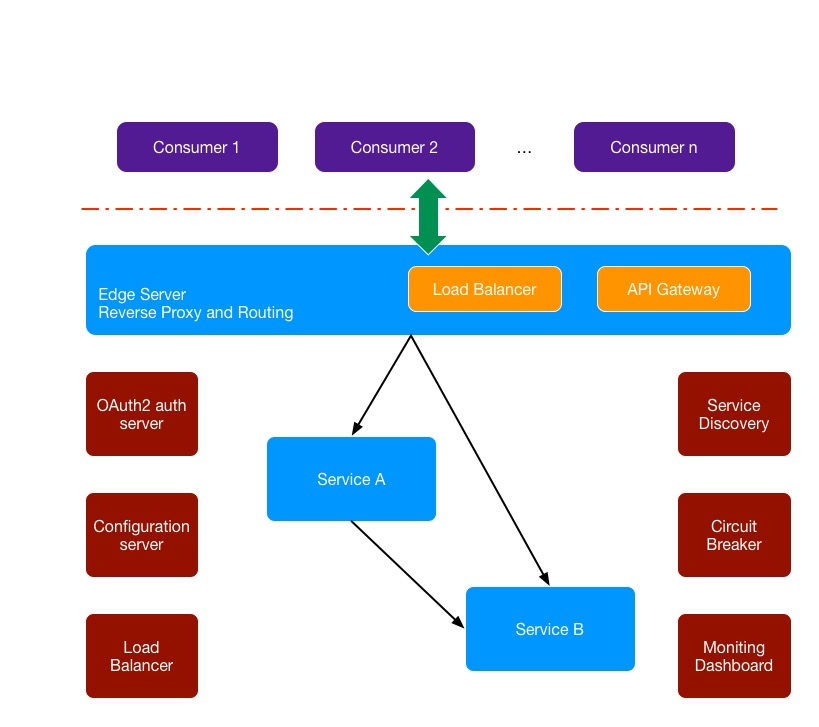
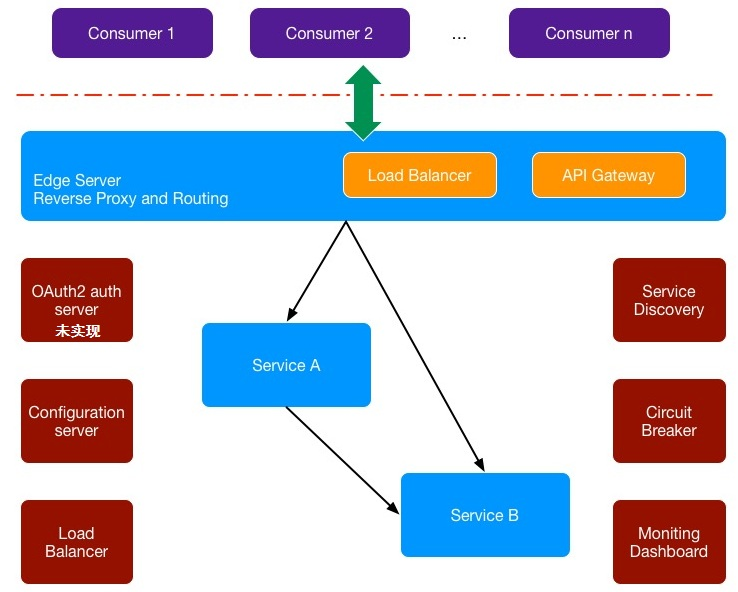
revise readme

diff --git a/README.md b/README.md
@@ -1,45 +1,43 @@
-# 基于 Spring Cloud 的微服务架构
+# 基于 Spring Cloud 的微服务基础框架
 
-本项目是一个基于 Spring Boot、Spring Cloud、Spring Oauth2 和 Spring Cloud Netflix 等框架构建的微服务项目。
+本项目是一个基于 Spring Cloud生态圈构建的微服务基础项目。包含了微服务在生产上所用到最基础组件，方便开发人员快速熟悉、构建基于Spring Cloud的微服务系统。
 
 # 技术栈
 * Spring boot - 微服务的入门级微框架，用来简化 Spring 应用的初始搭建以及开发过程。
-* Eureka - 云端服务发现，一个基于 REST 的服务，用于定位服务，以实现云端中间层服务发现和故障转移。
-* Spring Cloud Config - 配置管理工具包，让你可以把配置放到远程服务器，集中化管理集群配置，目前支持本地存储、Git 以及 Subversion。
-* Hystrix - 熔断器，容错管理工具，旨在通过熔断机制控制服务和第三方库的节点,从而对延迟和故障提供更强大的容错能力。
-* Zuul - Zuul 是在云平台上提供动态路由，监控，弹性，安全等边缘服务的框架。Zuul 相当于是设备和 Netflix 流应用的 Web 网站后端所有请求的前门。
+* Eureka - 云端服务发现，一个基于 REST 的服务，用于定位服务，以实现云端中间层服务发现和故障转移。[进一步了解Netflix Eureka](readmore/netflix%20eureka%20basic.md)
+* Spring Cloud Config - 配置管理工具包，让你可以把配置放到远程服务器，集中化管理集群配置，目前支持本地存储、Git 以及 Subversion。[进一步了解Spring Cloud Config](readmore/spring%20cloud%20config%20basic.md)
+* Hystrix - 熔断器，容错管理工具，旨在通过熔断机制控制服务和第三方库的节点,从而对延迟和故障提供更强大的容错能力。[进一步了解Netflix Hystrix](readmore/netflix%20hystrix%20basic.md)
+* Zuul - Zuul 是在云平台上提供动态路由，监控，弹性，安全等边缘服务的框架。Zuul 相当于是设备和 Netflix 流应用的 Web 网站后端所有请求的前门。[进一步了解Netflix Zuul](readmore/netflix%20zuul%20basic.md)
 * Spring Cloud Bus - 事件、消息总线，用于在集群（例如，配置变化事件）中传播状态变化，可与 Spring Cloud Config 联合实现热部署。
 * Spring Cloud Sleuth - 日志收集工具包，封装了 Dapper 和 log-based 追踪以及 Zipkin 和 HTrace 操作，为 SpringCloud 应用实现了一种分布式追踪解决方案。
-* Ribbon - 提供云端负载均衡，有多种负载均衡策略可供选择，可配合服务发现和断路器使用。
+* Ribbon - 提供云端负载均衡，有多种负载均衡策略可供选择，可配合服务发现和断路器使用。[进一步了解Netflix Ribbon](readmore/netflix%20ribbon%20basic.md)
 * Turbine - Turbine 是聚合服务器发送事件流数据的一个工具，用来监控集群下 hystrix 的 metrics 情况。
 * Spring Cloud Stream - Spring 数据流操作开发包，封装了与 Redis、Rabbit、Kafka 等发送接收消息。
-* Feign - Feign 是一种声明式、模板化的 HTTP 客户端。
-* Spring Cloud OAuth2 - 基于 Spring Security 和 OAuth2 的安全工具包，为你的应用程序添加安全控制。
-
+* Feign - Feign 是一种声明式、模板化的 HTTP 客户端。[进一步了解Netflix Feign](readmore/netflix%20feign%20basic.md)
+* Spring Cloud OAuth2 - 基于 Spring Security 和 OAuth2 的安全工具包，为你的应用程序添加安全控制**（出于简单考虑，本框架不加入该组件）**。
 # 应用架构
 
-该项目包含 8 个服务
+该项目包含 7 个服务
 
 * registry - 服务注册与发现
 * config - 外部配置
 * monitor - 监控
 * zipkin - 分布式跟踪
 * gateway - 代理所有微服务的接口网关
-* auth-service - OAuth2 认证服务
 * svca-service - 业务服务A
 * svcb-service - 业务服务B
 
 ## 体系架构
-![architecture](/screenshots/architecture.jpg)
+![architecture](screenshots/architecture.jpg)
 ## 应用组件
-![components](/screenshots/components.jpg)
+![components](screenshots/components.jpg)
 
 # 启动项目
 
 * 使用 Docker 快速启动
-    1. 配置 Docker 环境
+    1. [准备docker环境](readmore/install%20docker.md)和[docker-compose](https://docs.docker.com/compose/install/)
     2. `mvn clean package` 打包项目及 Docker 镜像
-    3. 在项目根目录下执行 `docker-compose up -d` 启动所有项目
+    3. 在项目根目录下运行`sh run.sh`(内部执行 `docker-compose up -d`)
 * 本地手动启动
     1. 配置 rabbitmq
     2. 修改 hosts 将主机名指向到本地   
@@ -51,94 +49,63 @@
 # 项目预览
 
 ## 注册中心
-访问 http://localhost:8761/ 默认账号 user，密码 password
+访问 http://DOCKER-HOST:8761/ 
 
-![registry](/screenshots/registry.jpg)
+![registry](screenshots/registry.jpg)
 ## 监控
-访问 http://localhost:8040/ 默认账号 admin，密码 admin
+访问 http://DOCKER-HOST:8040/ 
 ### 控制面板
-![monitor](/screenshots/monitor1.jpg)
+![monitor](screenshots/monitor1.jpg)
 ### 应用注册历史
-![monitor](/screenshots/monitor2.jpg)
+![monitor](screenshots/monitor2.jpg)
 ### Turbine Hystrix面板
-![monitor](/screenshots/monitor3.jpg)
+![monitor](screenshots/monitor3.jpg)
 ### 应用信息、健康状况、垃圾回收等详情
-![monitor](/screenshots/monitor4.jpg)
+![monitor](screenshots/monitor4.jpg)
 ### 计数器
-![monitor](/screenshots/monitor5.jpg)
+![monitor](screenshots/monitor5.jpg)
 ### 查看和修改环境变量
-![monitor](/screenshots/monitor6.jpg)
+![monitor](screenshots/monitor6.jpg)
 ### 管理 Logback 日志级别
-![monitor](/screenshots/monitor7.jpg)
+![monitor](screenshots/monitor7.jpg)
 ### 查看并使用 JMX
-![monitor](/screenshots/monitor8.jpg)
+![monitor](screenshots/monitor8.jpg)
 ### 查看线程
-![monitor](/screenshots/monitor9.jpg)
+![monitor](screenshots/monitor9.jpg)
 ### 认证历史
-![monitor](/screenshots/monitor10.jpg)
+![monitor](screenshots/monitor10.jpg)
 ### 查看 Http 请求轨迹
-![monitor](/screenshots/monitor11.jpg)
+![monitor](screenshots/monitor11.jpg)
 ### Hystrix 面板
-![monitor](/screenshots/monitor12.jpg)
+![monitor](screenshots/monitor12.jpg)
 ## 链路跟踪
-访问 http://localhost:9411/ 默认账号 admin，密码 admin
+访问 http://DOCKER-HOST:9411/ 默认账号 admin，密码 admin
 ### 控制面板
-![zipkin](/screenshots/zipkin1.jpg)
+![zipkin](screenshots/zipkin1.jpg)
 ### 链路跟踪明细
-![zipkin](/screenshots/zipkin2.jpg)
+![zipkin](screenshots/zipkin2.jpg)
 ### 服务依赖关系
-![zipkin](/screenshots/zipkin3.jpg)
+![zipkin](screenshots/zipkin3.jpg)
 ## RabbitMQ 监控
-Docker 启动访问 http://localhost:15673/ 默认账号 guest，密码 guest（本地 rabbit 管理系统默认端口15672）
+Docker 启动访问 http://DOCKER-HOST:15673/ 默认账号 guest，密码 guest（本地 rabbit 管理系统默认端口15672）
 
-![rabbit](/screenshots/rabbit.jpg)
+![rabbit](screenshots/rabbit.jpg)
 # 接口测试
-1. 获取 Token
+1. 访问 service a 接口
 ```
-curl -X POST -vu client:secret http://localhost:8060/uaa/oauth/token -H "Accept: application/json" -d "password=password&username=anil&grant_type=password&scope=read%20write"
-```
-返回如下格式数据：
-```
-{
-  "access_token": "eac56504-c4f0-4706-b72e-3dc3acdf45e9",
-  "token_type": "bearer",
-  "refresh_token": "da1007dc-683c-4309-965d-370b15aa4aeb",
-  "expires_in": 3599,
-  "scope": "read write"
-}
-```
-2. 使用 access token 访问 service a 接口
-```
-curl -i -H "Authorization: Bearer eac56504-c4f0-4706-b72e-3dc3acdf45e9" http://localhost:8060/svca
+curl http://DOCKER-HOST:8060/svca
 ```
 返回如下数据：
 ```
 svca-service (172.18.0.8:8080)===>name:zhangxd
 svcb-service (172.18.0.2:8070)===>Say Hello
 ```
-3. 使用 access token 访问 service b 接口
+2. service b 接口
 ```
-curl -i -H "Authorization: Bearer eac56504-c4f0-4706-b72e-3dc3acdf45e9" http://localhost:8060/svcb
+curl http://DOCKER-HOST:8060/svcb
 ```
 返回如下数据：
 ```
 svcb-service (172.18.0.2:8070)===>Say Hello
 ```
-4. 使用 refresh token 刷新 token
-```
-curl -X POST -vu client:secret http://localhost:8060/uaa/oauth/token -H "Accept: application/json" -d "grant_type=refresh_token&refresh_token=da1007dc-683c-4309-965d-370b15aa4aeb"
-```
-返回更新后的 Token：
-```
-{
-  "access_token": "63ff57ce-f140-482e-ba7e-b6f29df35c88",
-  "token_type": "bearer",
-  "refresh_token": "da1007dc-683c-4309-965d-370b15aa4aeb",
-  "expires_in": 3599,
-  "scope": "read write"
-}
-```
-5. 刷新配置
-```
-curl -X POST -vu user:password http://localhost:8888/bus/refresh
-```
+3. 刷新配置（后续更新）
